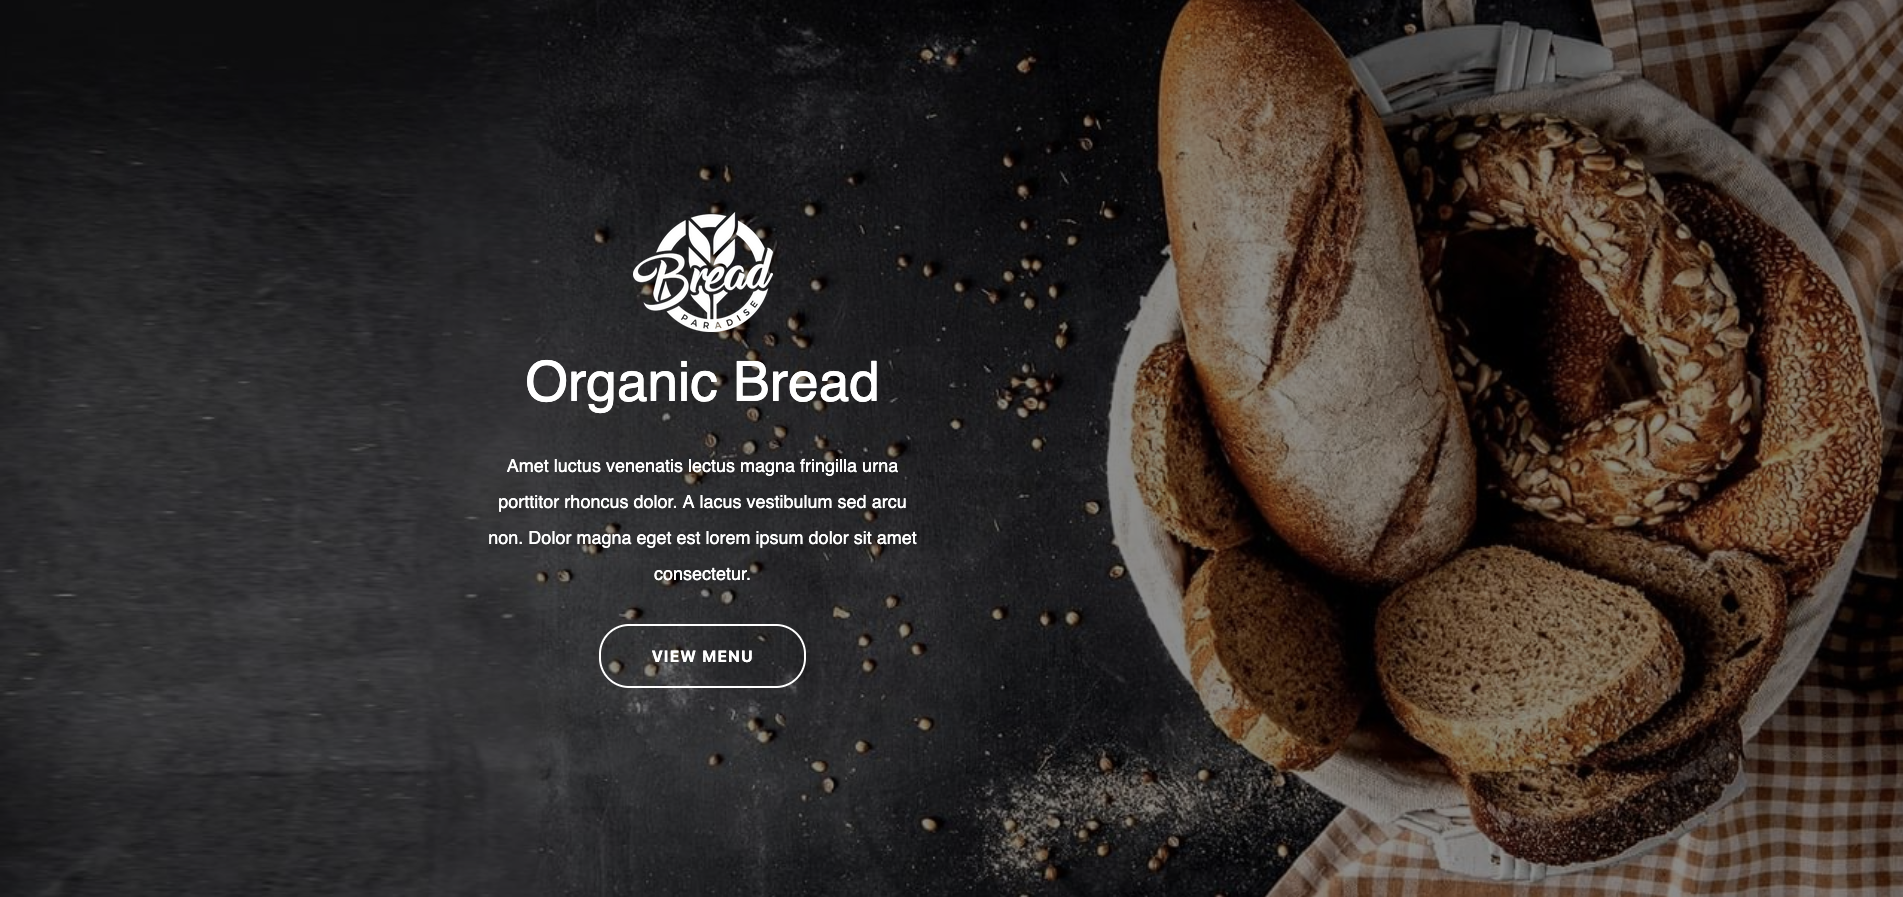
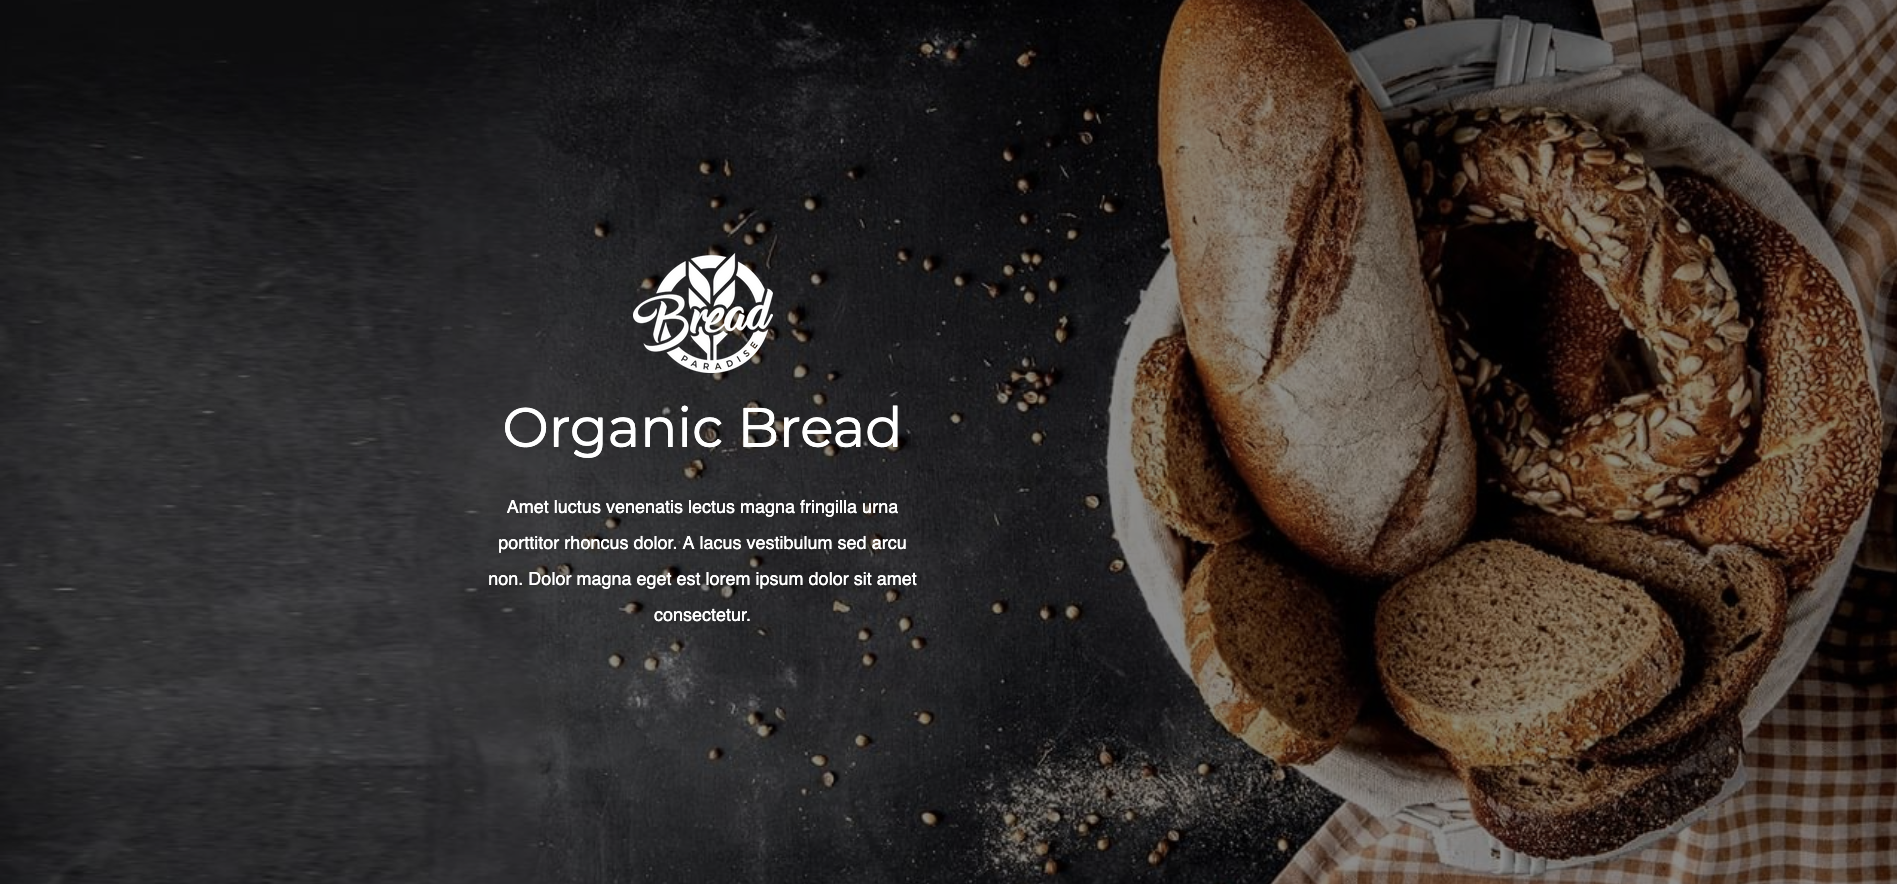
Update commit

diff --git a/src/scss/style.scss b/src/scss/style.scss
@@ -18,7 +18,7 @@ body {
   margin: 0 auto;
   font-family: $font-default;
   line-height: 1.6;
-  background-color: $bg-color;
+  background-color: $bg-primary;
 
   @include responsive($tablet-size) {
     font-size: 16px;
@@ -32,7 +32,7 @@ body {
 }
 
 h2 {
-  font-family: $font-title, sans-serif;
+  font-family: $font-primary, sans-serif;
   font-weight: 400;
   font-size: 55px;
 
@@ -51,7 +51,7 @@ h3 {
 
 h5 {
   margin: 0 1px 0 0;
-  font-family: $font-title;
+  font-family: $font-primary;
   font-weight: 700;
   font-size: 1.25rem;
   line-height: 1.2;
@@ -72,7 +72,7 @@ h5 {
   flex-direction: column;
   justify-content: center;
   height: 900px;
-  color: $bgWhite;
+  color: $text-light;
   font-size: 18px;
   text-align: center;
   background-image: linear-gradient(0deg, rgb(0 0 0 / 45%), rgb(0 0 0 / 45%)),
@@ -123,10 +123,10 @@ h5 {
 
 .menu-but {
   margin: 30px auto 0;
-  border: 2px solid $bg-color;
+  border: 2px solid $bg-primary;
   border-radius: 30px;
   padding: 20px 50px;
-  color: $bgWhite;
+  color: $text-light;
   font-weight: 700;
   font-size: 16px;
   letter-spacing: 1px;
@@ -138,14 +138,14 @@ h5 {
   animation-duration: 3s;
 
   &:hover {
-    color: #000;
-    background-color: $bgWhite;
+    color: $text-dark;
+    background-color: $bg-primary;
     cursor: pointer;
   }
 }
 
 .delicious-baking {
-  background-color: $second-bg-color;
+  background-color: $bg-secondary;
 
   &__block {
     display: flex;
@@ -199,7 +199,7 @@ h5 {
 
   &__description {
     margin: 20px auto 0 0;
-    font-family: $font-text;
+    font-family: $font-primary;
     font-size: 16px;
     line-height: 1.6;
   }
@@ -213,8 +213,8 @@ h5 {
 .our-mission {
   position: relative;
   padding-bottom: 200px;
-  font-family: $font-title;
-  background-color: $second-bg-color;
+  font-family: $font-primary;
+  background-color: $bg-secondary;
 
   &__image {
     width: 100%;
@@ -233,7 +233,7 @@ h5 {
     left: 50vw;
     max-width: 551px;
     box-shadow: 5px 5px 20px 0 rgb(0 0 0 / 20%);
-    background-color: $bgWhite;
+    background-color: $bg-primary;
 
     @include responsive($tablet-size) {
       left: 5vw;
@@ -251,7 +251,7 @@ h5 {
   }
 
   &__title {
-    font-family: $font-title;
+    font-family: $font-primary;
     font-weight: 400;
     font-size: 2.5rem;
   }
@@ -263,7 +263,7 @@ h5 {
 
   &__button {
     margin: 30px auto 0 0;
-    border: 2px solid black;
+    border: 2px solid $text-dark;
     border-radius: 30px;
     padding: 20px 50px;
     font-weight: 700;
@@ -277,8 +277,8 @@ h5 {
 
     &:hover,
     &:active {
-      color: white;
-      background-color: black;
+      color: $text-light;
+      background-color: $text-dark;
       cursor: pointer;
     }
   }
@@ -286,7 +286,7 @@ h5 {
 
 .about-bakery {
   min-height: 609px;
-  background-color: #f2f2f2;
+  background-color: $bg-secondary;
 
   &__content {
     display: flex;
@@ -308,7 +308,7 @@ h5 {
     width: 95%;
     height: auto;
     padding: 30px 50px;
-    background-color: $bgWhite;
+    background-color: $bg-primary;
 
     @include responsive($tablet-size) {
       width: 100%;
@@ -337,7 +337,7 @@ h5 {
     align-items: center;
     gap: 10px;
     min-height: 281px;
-    font-family: 'Open Sans', sans-serif;
+    font-family: $font-secondary;
 
     @include responsive($mobile-size) {
       grid-template-columns: 1fr 1fr;
@@ -346,7 +346,7 @@ h5 {
   }
 
   &__link-item {
-    color: black;
+    color: $text-dark;
     text-decoration: none;
   }
 
@@ -361,7 +361,7 @@ h5 {
 .bakery-items {
   display: flex;
   flex-direction: column;
-  background-color: white;
+  background-color: $bg-primary;
 
   &__title {
     margin: 60px auto 0;
@@ -410,7 +410,7 @@ h5 {
 
   &__card-description {
     margin: 20px 0 0;
-    font-family: 'Open Sans', sans-serif;
+    font-family: $font-secondary;
     font-size: 16px;
     font-style: italic;
     line-height: 1.6;
@@ -423,7 +423,7 @@ h5 {
 }
 
 .footer {
-  color: #ffffff;
+  color: $text-light;
   background-color: #333333;
 
   &__content {
@@ -442,23 +442,22 @@ h5 {
       flex-direction: column;
       text-align: center;
       gap: 15px;
-      
     }
   }
 
   &__text {
-    font-family: 'Open Sans', sans-serif;
+    font-family: $font-secondary;
     font-size: 0.875rem;
     line-height: 1.6;
   }
 
   &__tel {
     text-underline-offset: 4px;
-    color: #ffffff;
+    color: $text-light;
   }
 
   &__address {
-    font-family: 'Open Sans', sans-serif;
+    font-family: $font-secondary;
     font-size: 0.875rem;
     line-height: 1.6;
     font-style: normal;

diff --git a/src/scss/_fonts.scss b/src/scss/_fonts.scss
@@ -14,5 +14,15 @@
 
 @include font-face('Montserrat', '../fonts/Montserrat-Regular', 400, 'normal');
 @include font-face('Montserrat', '../fonts/Montserrat-SemiBold', 700, 'bold');
-@include font-face('Open Sans', '../fonts/OpenSans_SemiCondensed-Regular', 400, 'normal');
-@include font-face('Open Sans', '../fonts/OpenSans_SemiCondensed-SemiBold', 700, 'bold');
+@include font-face(
+  'Open Sans',
+  '../fonts/OpenSans_SemiCondensed-Regular',
+  400,
+  'normal'
+);
+@include font-face(
+  'Open Sans',
+  '../fonts/OpenSans_SemiCondensed-SemiBold',
+  700,
+  'bold'
+);

diff --git a/src/scss/_variables.scss b/src/scss/_variables.scss
@@ -1,15 +1,3 @@
-$font-stack: 'helvetica', sans-serif;
-$font-title: 'Montserrat', sans-serif;
-$font-text: 'Montserrat', sans-serif;
-$bg-color: white;
-$second-bg-color: #f2f2f2;
-$bgWhite: white;
-
-$mobile-size: 768px;
-$tablet-size: 992px;
-
-
-
 $font-primary: 'Montserrat', sans-serif;
 $font-secondary: 'Open Sans', sans-serif;
 $font-default: 'helvetica', sans-serif;
@@ -18,3 +6,6 @@ $bg-primary: white;
 $bg-secondary: #f2f2f2;
 $text-dark: #000;
 $text-light: #fff;
+
+$mobile-size: 768px;
+$tablet-size: 992px;

diff --git a/stylelint.config.js b/stylelint.config.js
@@ -1,3 +1,3 @@
 module.exports = {
-  "extends": "stylelint-config-standard-scss"
-}
+  extends: 'stylelint-config-standard-scss',
+};

diff --git a/README.md b/README.md
@@ -24,7 +24,7 @@
 
 ![Скриншот главной страницы](./src/images/screenshot.png)
 
-[Посмотреть демо](https://yourusername.github.io/bread-paradise/)
+[Посмотреть демо](https://simo680.github.io/bread-paradise/)
 
 ### Системные требования
 
@@ -34,7 +34,7 @@
 
 1. Склонируйте репозиторий:
    ```sh
-   git clone https://github.com/yourusername/bread-paradise.git
+   git clone https://github.com/simo680/bread-paradise.git
    ```
 2. Перейдите в папку проекта:
    ```sh
